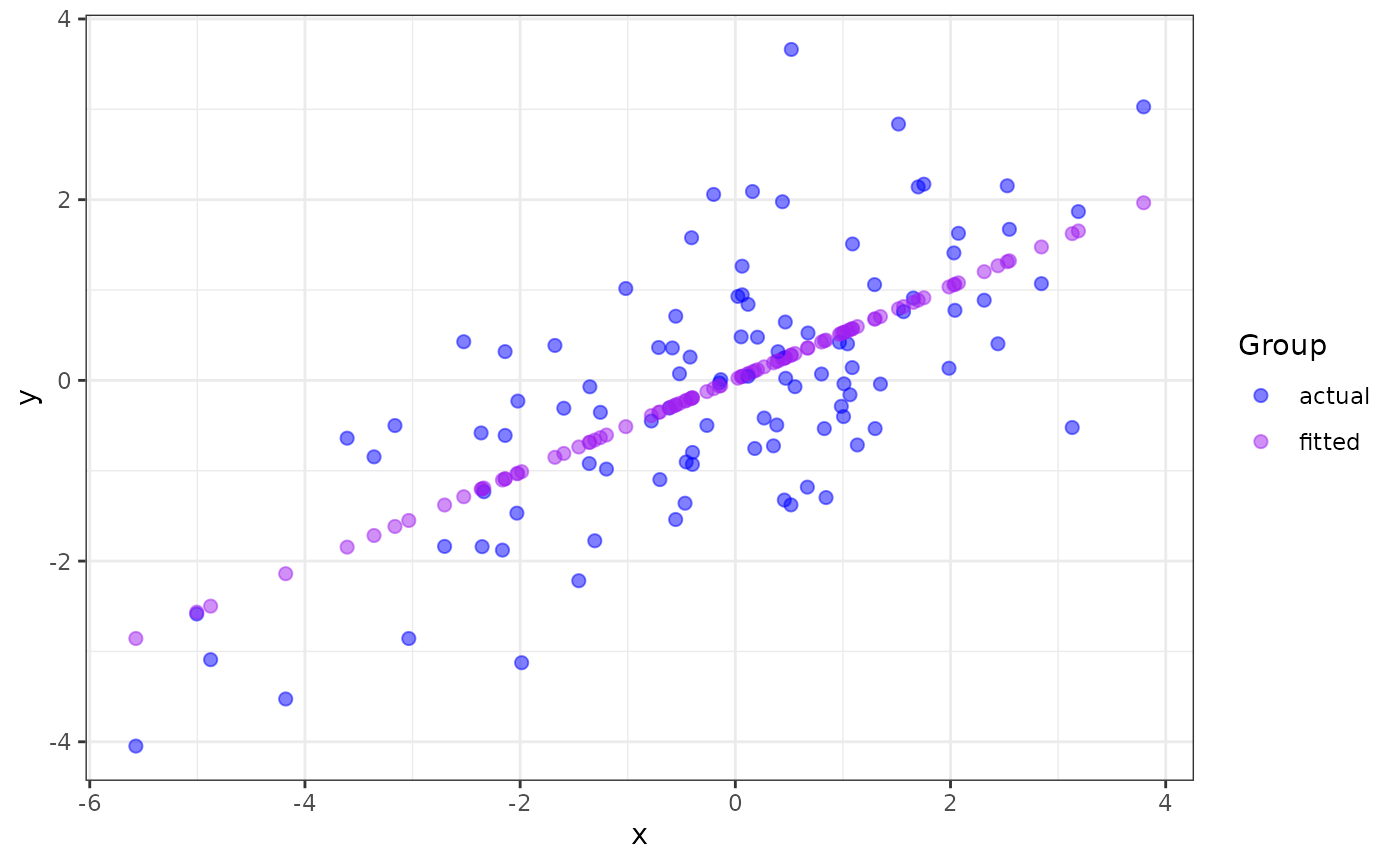
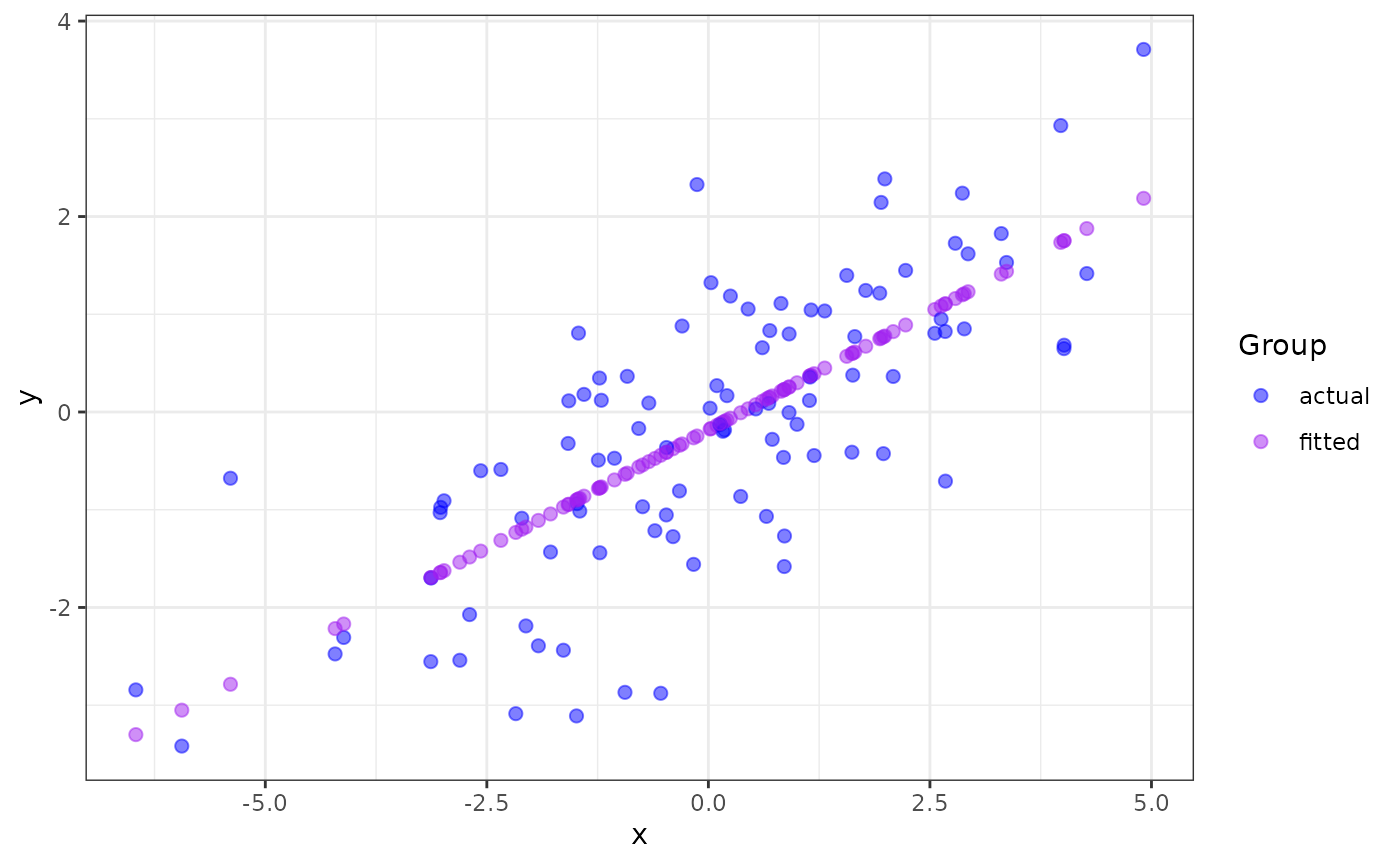
Built site for ggmatplot: 0.1.2@d99b40f

diff --git a/articles/ggmatplot.html b/articles/ggmatplot.html
@@ -103,7 +103,7 @@
 <span class="va">x</span> <span class="op">&lt;-</span> <span class="fu"><a href="https://rdrr.io/r/base/c.html" class="external-link">c</a></span><span class="op">(</span><span class="fu"><a href="https://rdrr.io/r/stats/Normal.html" class="external-link">rnorm</a></span><span class="op">(</span><span class="fl">100</span>, sd <span class="op">=</span> <span class="fl">2</span><span class="op">)</span><span class="op">)</span>
 
 <span class="fu"><a href="https://rdrr.io/r/utils/head.html" class="external-link">head</a></span><span class="op">(</span><span class="va">x</span><span class="op">)</span>
-<span class="co">#&gt; [1]  0.2057784  1.0056778  1.0427001 -3.0348878  0.1596330  0.8012064</span>
+<span class="co">#&gt; [1]  0.7206074  1.6291944  3.3644705  0.6086260  2.6751507 -1.0599431</span>
 
 <span class="co"># matrix z</span>
 <span class="va">y</span> <span class="op">&lt;-</span> <span class="va">x</span> <span class="op">*</span> <span class="fl">0.5</span> <span class="op">+</span> <span class="fu"><a href="https://rdrr.io/r/stats/Normal.html" class="external-link">rnorm</a></span><span class="op">(</span><span class="fl">100</span>, sd <span class="op">=</span> <span class="fl">1</span><span class="op">)</span>
@@ -112,13 +112,13 @@
            fitted <span class="op">=</span> <span class="va">fit.y</span><span class="op">)</span>
 
 <span class="fu"><a href="https://rdrr.io/r/utils/head.html" class="external-link">head</a></span><span class="op">(</span><span class="va">z</span><span class="op">)</span>
-<span class="co">#&gt;       actual      fitted</span>
-<span class="co">#&gt; 1  0.4778440  0.11784392</span>
-<span class="co">#&gt; 2 -0.4008260  0.52967657</span>
-<span class="co">#&gt; 3  0.4041629  0.54873768</span>
-<span class="co">#&gt; 4 -2.8569064 -1.55063117</span>
-<span class="co">#&gt; 5  2.0900750  0.09408569</span>
-<span class="co">#&gt; 6  0.0702532  0.42440335</span></code></pre></div>
+<span class="co">#&gt;       actual     fitted</span>
+<span class="co">#&gt; 1 -0.2797635  0.1640661</span>
+<span class="co">#&gt; 2  0.3768495  0.6024577</span>
+<span class="co">#&gt; 3  1.5298360  1.4397253</span>
+<span class="co">#&gt; 4  0.6578309  0.1100353</span>
+<span class="co">#&gt; 5 -0.7073264  1.1071297</span>
+<span class="co">#&gt; 6 -0.4732965 -0.6950463</span></code></pre></div>
 <p><code>ggmatplot</code> plots vector <code>x</code> against each column of matrix <code>z</code> using the default <code>plot_type = "point"</code>. This will be represented on the resulting plot as two groups, identified using different shapes and colors.</p>
 <div class="sourceCode" id="cb2"><pre class="downlit sourceCode r">
 <code class="sourceCode R"><span class="kw"><a href="https://rdrr.io/r/base/library.html" class="external-link">library</a></span><span class="op">(</span><span class="va"><a href="https://github.com/xuan-liang/ggmatplot" class="external-link">ggmatplot</a></span><span class="op">)</span>

diff --git a/news/index.html b/news/index.html
@@ -63,11 +63,13 @@
     <div class="section level2"><h2 class="page-header" data-toc-text="development version" id="ggmatplot-development-version">ggmatplot (development version)<a class="anchor" aria-label="anchor" href="#ggmatplot-development-version"></a></h2></div>
     <div class="section level2">
 <h2 class="page-header" data-toc-text="0.1.2" id="ggmatplot-012">ggmatplot 0.1.2<a class="anchor" aria-label="anchor" href="#ggmatplot-012"></a></h2>
-<ul><li>Modified the legend setting.</li></ul></div>
-    <div class="section level2"><h2 class="page-header" data-toc-text="0.1.1" id="ggmatplot-011">ggmatplot 0.1.1<small>2022-01-11</small><a class="anchor" aria-label="anchor" href="#ggmatplot-011"></a></h2></div>
+<ul><li>Modified the legend setting of the previous version 0.1.1.</li></ul></div>
+    <div class="section level2">
+<h2 class="page-header" data-toc-text="0.1.1" id="ggmatplot-011">ggmatplot 0.1.1<small>2022-01-11</small><a class="anchor" aria-label="anchor" href="#ggmatplot-011"></a></h2>
+<ul><li>Solved the issue of the previous version 0.1.0.</li></ul></div>
     <div class="section level2">
 <h2 class="page-header" data-toc-text="0.1.0" id="ggmatplot-010">ggmatplot 0.1.0<small>2021-12-08</small><a class="anchor" aria-label="anchor" href="#ggmatplot-010"></a></h2>
-<ul><li>This old version has been archived on CRAN.</li></ul></div>
+<ul><li>This version has been archived on CRAN.</li></ul></div>
   </div>
 
   <div class="col-md-3 hidden-xs hidden-sm" id="pkgdown-sidebar">
